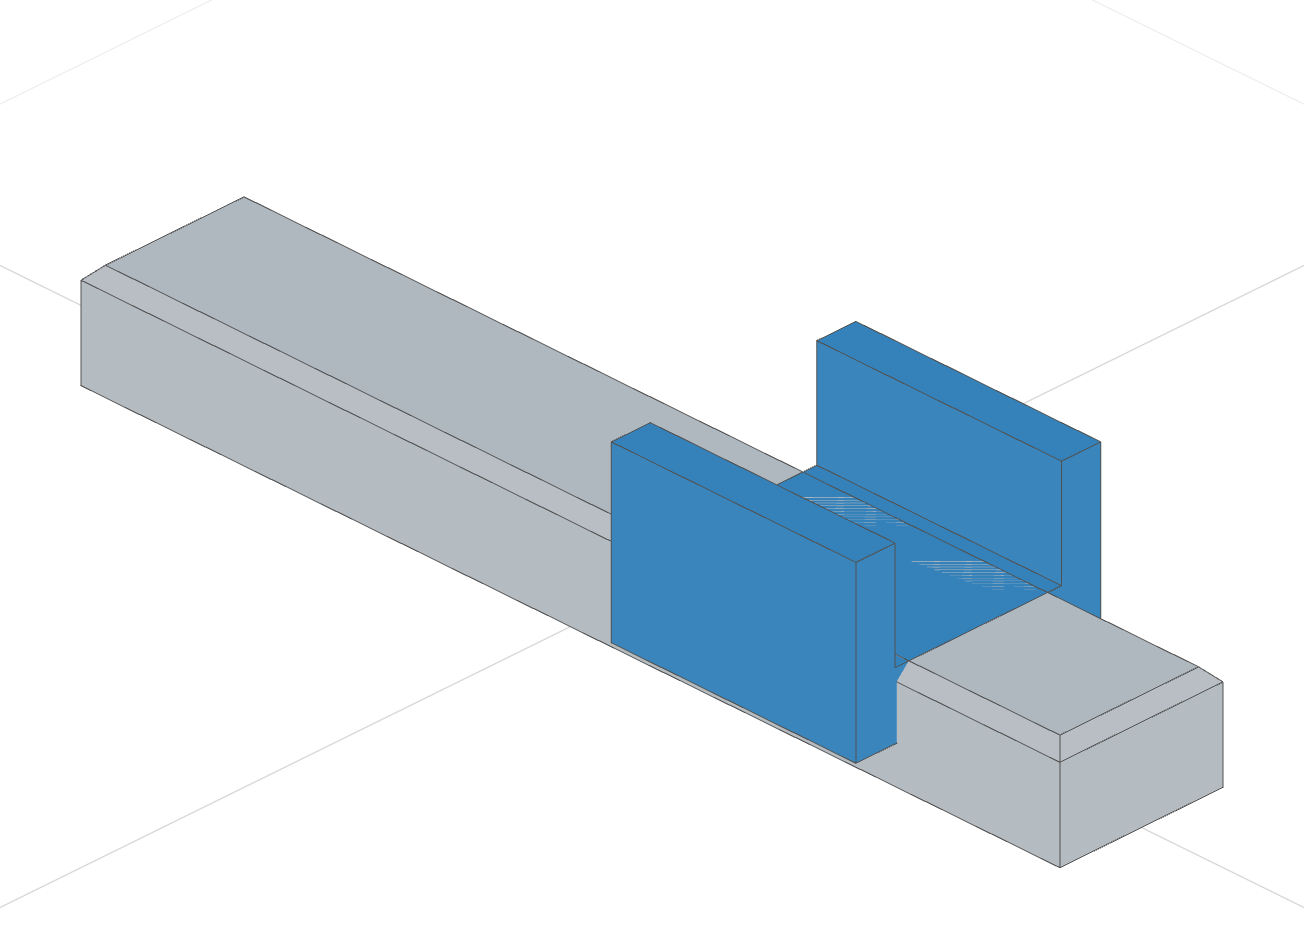
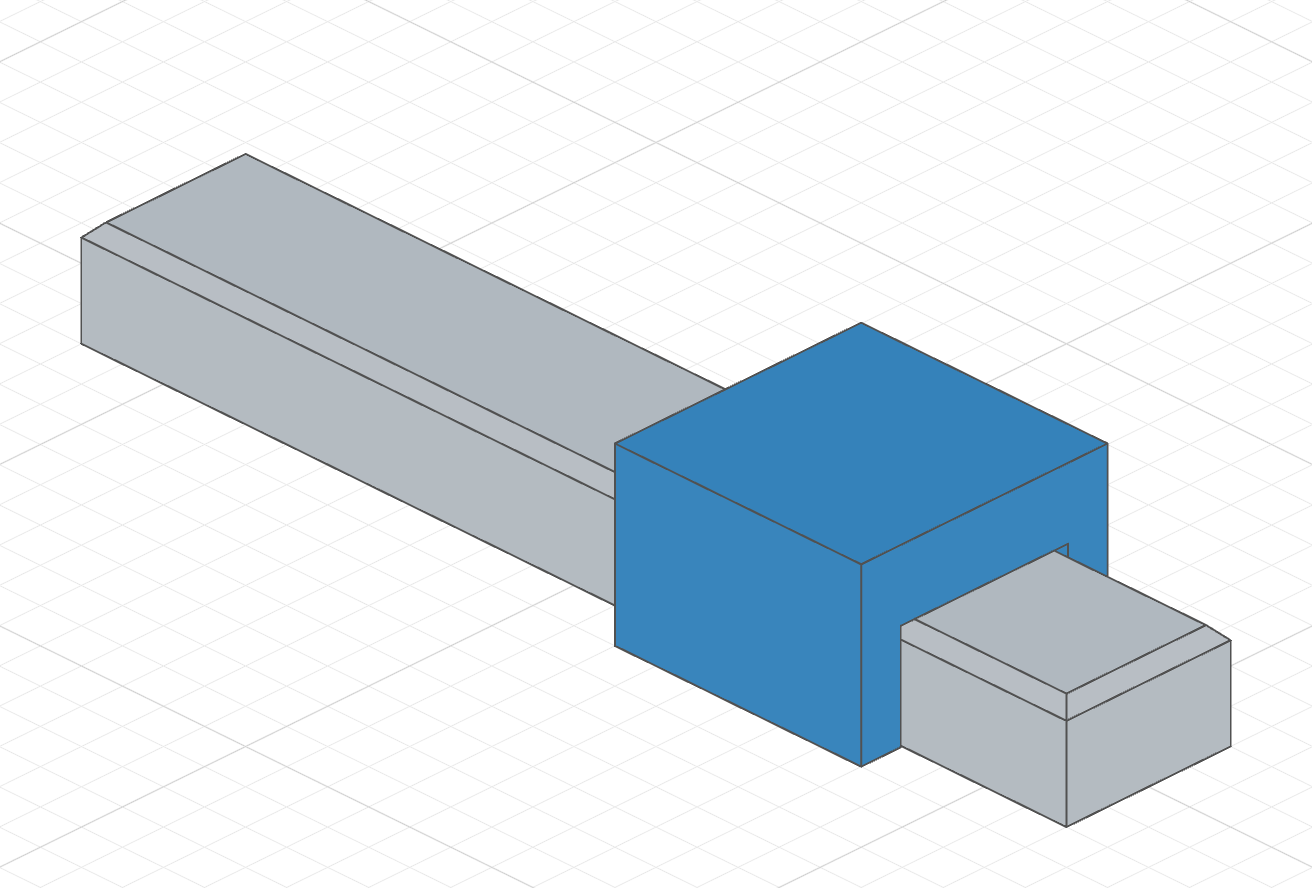
docs(assembly): fix the slider example's z-fighting — rail and carriage connectors share xDirection 'y' and turn about X so the frames meet face-to-face upright, groove depth matches the rail height, explain the X-axis rule on the Slider page, retake the screenshot

diff --git a/website/docs/assembly/_examples/asm-carriage.part.js b/website/docs/assembly/_examples/asm-carriage.part.js
@@ -4,13 +4,14 @@ import { face } from 'fluidcad/filters';
 import { coincident, distance, fix, horizontal, vertical } from 'fluidcad/constraints';
 
 // A 30 mm carriage that straddles the rail: a U profile on the YZ plane —
-// 30 wide, 20 tall, with a 20.4 × 12.4 groove — extruded along X.
+// 30 wide, 20 tall, with a 20.4 × 12 groove that rests on the rail's top
+// and clears its sides by 0.2 — extruded along X.
 export const carriage = part('Carriage', () => {
     sketch('yz', () => {
         const l1 = line([-15, 0], [-10.2, 0]);
-        const l2 = line([-10.2, 0], [-10.2, 12.4]);
-        const l3 = line([-10.2, 12.4], [10.2, 12.4]);
-        const l4 = line([10.2, 12.4], [10.2, 0]);
+        const l2 = line([-10.2, 0], [-10.2, 12]);
+        const l3 = line([-10.2, 12], [10.2, 12]);
+        const l4 = line([10.2, 12], [10.2, 0]);
         const l5 = line([10.2, 0], [15, 0]);
         const l6 = line([15, 0], [15, 20]);
         const l7 = line([15, 20], [-15, 20]);
@@ -35,11 +36,11 @@ export const carriage = part('Carriage', () => {
         distance(l7.start(), l7.end(), 30);
         distance(l8.start(), l8.end(), 20);
         distance(l3.start(), l3.end(), 20.4);
-        distance(l2.start(), l2.end(), 12.4);
+        distance(l2.start(), l2.end(), 12);
     });
     extrude(30);
     color('steelblue');
-    // The groove ceiling, turned so Z runs along the carriage like the
-    // rail's `track` frame does.
-    connector('slide', select(face().planar().onPlane('xy', 12.4))).rotate('y', 90);
+    // The groove ceiling, built like the rail's `track` frame: X across the
+    // carriage (world Y), then turned 90° about that X so Z runs along it.
+    connector('slide', select(face().planar().onPlane('xy', 12)), { xDirection: 'y' }).rotate('x', 90);
 });

diff --git a/website/docs/assembly/_examples/asm-rail.part.js b/website/docs/assembly/_examples/asm-rail.part.js
@@ -24,7 +24,9 @@ export const rail = part('Rail', () => {
     });
     const body = extrude(12);
     chamfer(1.5, body.endEdges());
-    // The track frame: the top-face frame turned so Z runs along the rail.
-    // A slider mate frees exactly that direction.
-    connector('track', select(face().planar().onPlane('xy', 12))).rotate('y', 90);
+    // The track frame, on the top face: X across the rail (world Y), then
+    // turned 90° about that X so Z runs along the rail. The carriage's
+    // frame is built the same way, so the two meet face-to-face with their
+    // X axes agreeing, and a slider mate frees exactly the shared Z.
+    connector('track', select(face().planar().onPlane('xy', 12)), { xDirection: 'y' }).rotate('x', 90);
 });
